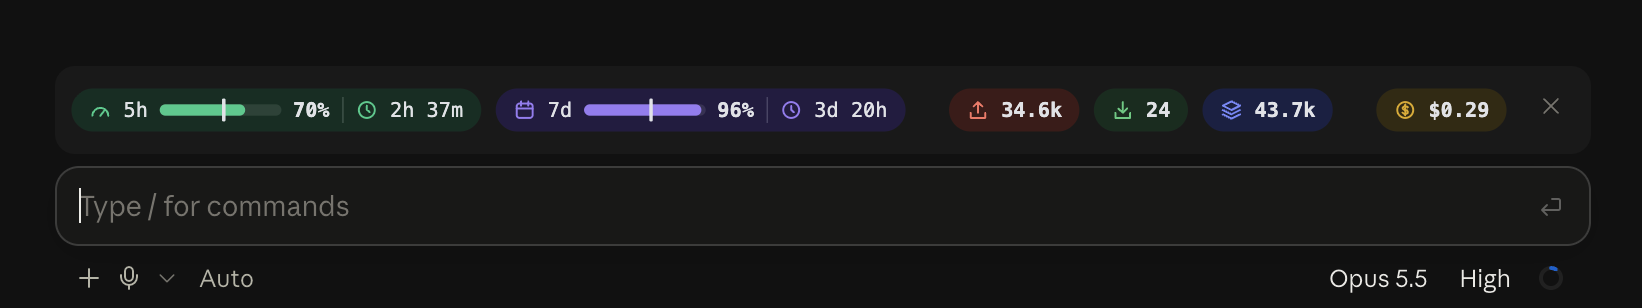
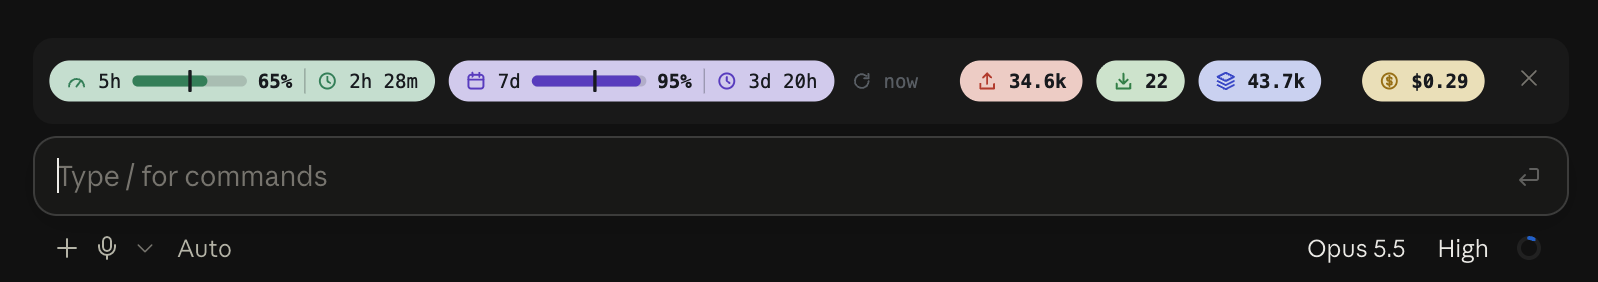
Show how old the rate-limit reading is
A refresh mark after the 7d pill gives the reading's age, with a
showUpdated option to leave it out. The README's section on update
timing now covers it and what to expect across sessions.

diff --git a/hooks/bar.ts b/hooks/bar.ts
@@ -10,6 +10,8 @@ export type Style = {
   // At or below these percentages left, the bar is drawn orange, then red.
   warnBelow: number
   dangerBelow: number
+  // Whether the bar says how long ago the rate-limit reading was taken.
+  showUpdated: boolean
 }
 
 export const DEFAULT_STYLE: Style = {
@@ -17,6 +19,7 @@ export const DEFAULT_STYLE: Style = {
   staleAfterMs: 10 * 60_000,
   warnBelow: 30,
   dangerBelow: 10,
+  showUpdated: true,
 }
 const WINDOWS: Record<string, { label: string; ms: number }> = {
   five_hour: { label: '5h', ms: 5 * HOUR },
@@ -78,6 +81,18 @@ export function formatCost(usd: number | null): string {
   return usd === null ? '$--' : `$${usd.toFixed(2)}`
 }
 
+// How long ago the rate-limit reading was taken: `now` under a minute, `--`
+// when there is no reading or its time is unknown.
+export function formatAge(snapshot: Snapshot, now: number): string {
+  if (snapshot.limits.length === 0 || snapshot.limitsAt === null) {
+    return '--'
+  }
+
+  const age = now - snapshot.limitsAt
+
+  return age < 60_000 ? 'now' : formatLeft(age)
+}
+
 export function textLine(snapshot: Snapshot, tokens: Tokens, now: number, style: Style): string {
   const windows = ['five_hour', 'seven_day'].map(kind => {
     const w = windowOf(kind, snapshot, now, style)
@@ -85,8 +100,14 @@ export function textLine(snapshot: Snapshot, tokens: Tokens, now: number, style:
     return `${w.label} ${w.isStale ? '~' : ''}${w.percent ?? '--'}% left (${w.left})`
   })
 
+  const age = formatAge(snapshot, now)
+  const updated = style.showUpdated && snapshot.limits.length > 0
+    ? [`updated ${age === 'now' || age === '--' ? age : `${age} ago`}`]
+    : []
+
   return [
     ...windows,
+    ...updated,
     `in ${formatTokens(tokens.input)}`,
     `out ${formatTokens(tokens.output)}`,
     `cache ${formatTokens(tokens.cache)}`,
@@ -104,6 +125,8 @@ const MID = HEIGHT / 2
 
 type Palette = {
   ink: string
+  // The refresh mark and its age, drawn on the band itself and not on a pill.
+  muted: string
   warn: string
   danger: string
   // Per pill, in the order drawn: its background and its icon and bar color.
@@ -113,6 +136,7 @@ type Palette = {
 const PALETTES: Record<Style['theme'], Palette> = {
   light: {
     ink: '#1f2328',
+    muted: '#6b7076',
     warn: '#c77d1a',
     danger: '#c0392b',
     pills: [
@@ -126,6 +150,7 @@ const PALETTES: Record<Style['theme'], Palette> = {
   },
   dark: {
     ink: '#e6e8eb',
+    muted: '#9aa0a6',
     warn: '#e0a040',
     danger: '#f0705f',
     pills: [
@@ -146,12 +171,13 @@ const ICONS = {
   up: '<path d="M8 10V2.5M5 5.5l3-3 3 3M3 10v3.5h10V10"/>',
   down: '<path d="M8 2.5V10M5 7l3 3 3-3M3 10v3.5h10V10"/>',
   layers: '<path d="M8 2l6 3-6 3-6-3zM2 8l6 3 6-3M2 11l6 3 6-3"/>',
+  refresh: '<path d="M13 8a5 5 0 1 1-1.6-3.6M13 2.8v3.2H9.8"/>',
   coin: '<circle cx="8" cy="8" r="5.5"/><path d="M9.8 6.2c-.3-.6-1-.9-1.8-.9-1 0-1.8.5-1.8 1.3 0 1.9 3.7.8 3.7 2.8 0 .8-.8 1.3-1.9 1.3-.9 0-1.6-.4-1.9-1M8 4.2v7.6"/>',
 }
 
 type Part =
   | { icon: keyof typeof ICONS; color: string }
-  | { text: string; isBold?: boolean; isFaded?: boolean }
+  | { text: string; isBold?: boolean; isFaded?: boolean; color?: string }
   | { bar: Window; color: string }
   | { rule: true }
 
@@ -175,7 +201,7 @@ function drawPart(part: Part, x: number, style: Style): string {
   }
 
   if ('text' in part) {
-    return `<text x="${x}" y="${MID + 5}" fill="${ink}" font-weight="${part.isBold ? 700 : 400}"${part.isFaded ? ' opacity="0.4"' : ''}>${part.text}</text>`
+    return `<text x="${x}" y="${MID + 5}" fill="${part.color ?? ink}" font-weight="${part.isBold ? 700 : 400}"${part.isFaded ? ' opacity="0.4"' : ''}>${part.text}</text>`
   }
 
   if ('rule' in part) {
@@ -227,19 +253,36 @@ function windowParts(w: Window, icon: 'gauge' | 'calendar', color: string): Part
 }
 
 export function barSvg(snapshot: Snapshot, tokens: Tokens, now: number, style: Style): string {
-  const contents: { parts: (accent: string) => Part[]; gapAfter: number }[] = [
-    { parts: accent => windowParts(windowOf('five_hour', snapshot, now, style), 'gauge', accent), gapAfter: 10 },
-    { parts: accent => windowParts(windowOf('seven_day', snapshot, now, style), 'calendar', accent), gapAfter: 30 },
-    { parts: accent => [{ icon: 'up', color: accent }, { text: formatTokens(tokens.input), isBold: true }], gapAfter: 10 },
-    { parts: accent => [{ icon: 'down', color: accent }, { text: formatTokens(tokens.output), isBold: true }], gapAfter: 10 },
-    { parts: accent => [{ icon: 'layers', color: accent }, { text: formatTokens(tokens.cache), isBold: true }], gapAfter: 30 },
-    { parts: accent => [{ icon: 'coin', color: accent }, { text: formatCost(snapshot.costUsd), isBold: true }], gapAfter: 0 },
+  const { pills: colors, muted } = PALETTES[style.theme]
+  // `pill` picks the palette entry; without one the parts sit on the band itself.
+  const contents: { pill?: number; parts: (accent: string) => Part[]; gapAfter: number }[] = [
+    { pill: 0, parts: accent => windowParts(windowOf('five_hour', snapshot, now, style), 'gauge', accent), gapAfter: 10 },
+    { pill: 1, parts: accent => windowParts(windowOf('seven_day', snapshot, now, style), 'calendar', accent), gapAfter: 30 },
+    { pill: 2, parts: accent => [{ icon: 'up', color: accent }, { text: formatTokens(tokens.input), isBold: true }], gapAfter: 10 },
+    { pill: 3, parts: accent => [{ icon: 'down', color: accent }, { text: formatTokens(tokens.output), isBold: true }], gapAfter: 10 },
+    { pill: 4, parts: accent => [{ icon: 'layers', color: accent }, { text: formatTokens(tokens.cache), isBold: true }], gapAfter: 30 },
+    { pill: 5, parts: accent => [{ icon: 'coin', color: accent }, { text: formatCost(snapshot.costUsd), isBold: true }], gapAfter: 0 },
   ]
-  const { pills: colors } = PALETTES[style.theme]
+
+  if (style.showUpdated && snapshot.limits.length > 0) {
+    const seven = contents[1]
+
+    if (seven !== undefined) {
+      seven.gapAfter = 0
+    }
+
+    contents.splice(2, 0, {
+      parts: () => [{ icon: 'refresh', color: muted }, { text: formatAge(snapshot, now), color: muted }],
+      gapAfter: 18,
+    })
+  }
 
   let x = 0
-  const drawn = contents.map((content, index) => {
-    const { background, accent } = colors[index] ?? { background: 'none', accent: 'currentColor' }
+  const drawn = contents.map(content => {
+    const { background, accent } = (content.pill === undefined ? undefined : colors[content.pill]) ?? {
+      background: 'none',
+      accent: muted,
+    }
     const { svg, width } = drawPill(content.parts(accent), background, x, style)
     x += width + content.gapAfter
 

diff --git a/tests/bar.test.ts b/tests/bar.test.ts
@@ -45,7 +45,7 @@ test('the band shows the windows, tokens and cost on each surface', async ($, on
     },
   })
 
-  const line = '5h 80% left (2h 40m) | 7d 42% left (1d 7h) | in 15.6k | out 3.0k | cache 954.2k | $4.32'
+  const line = '5h 80% left (2h 40m) | 7d 42% left (1d 7h) | updated now | in 15.6k | out 3.0k | cache 954.2k | $4.32'
   const terminal = await $.ui.mount({ ...BAND, surface: 'terminal' })
   expect((await terminal.find({ type: 'Text' }))?.text).toBe(line)
   await terminal.unmount()
@@ -141,7 +141,7 @@ test('options set the theme, the cache-write split and the fade time', { options
 
   const ui = await $.ui.mount({ ...BAND, surface: 'desktop' })
   const svg = await ui.find({ type: 'Svg' })
-  expect(svg?.props.alt).toContain('5h 80% left (2h 40m) | 7d --% left (--) | in 600 | out 3.0k | cache 16.0k')
+  expect(svg?.props.alt).toContain('5h 80% left (2h 40m) | 7d --% left (--) | updated now | in 600 | out 3.0k | cache 16.0k')
   expect(String(svg?.props.source)).toContain('#1f3a2e')
   expect(String(svg?.props.source)).not.toContain('#cfe3d8')
 
@@ -150,6 +150,24 @@ test('options set the theme, the cache-write split and the fade time', { options
   // No timer runs in this test, so a fresh mount stands for the next redraw.
   await clock.advance(2 * 60_000)
   const later = await $.ui.mount({ ...BAND, surface: 'desktop' })
-  expect((await later.find({ type: 'Svg' }))?.props.alt).toContain('5h ~80% left')
+  const faded = await later.find({ type: 'Svg' })
+  expect(faded?.props.alt).toContain('5h ~80% left')
+  expect(faded?.props.alt).toContain('updated 2m ago')
   await later.unmount()
+})
+
+test('showUpdated off leaves the reading age out', { options: { showUpdated: false } }, async ($, on) => {
+  mock.clock(on, { now: NOW })
+  mock.store(on)
+  on('session.measure', (_, e) => ({ changed: e.changed }))
+
+  await $.session.measure({
+    context: { window: 200_000 },
+    rateLimits: [{ kind: 'five_hour', percentUsed: 20, resetsAt: '2026-10-06T14:40:00Z' }],
+    changed: ['rateLimits'],
+  })
+
+  const ui = await $.ui.mount({ ...BAND, surface: 'terminal' })
+  expect((await ui.find({ type: 'Text' }))?.text).not.toContain('updated')
+  await ui.unmount()
 })

diff --git a/hooks/register.tsx b/hooks/register.tsx
@@ -78,6 +78,7 @@ function styleOf(options: PluginOptions): Style {
     staleAfterMs: numberOf(options.staleMinutes, DEFAULT_STYLE.staleAfterMs / 60_000, 1, 1440) * 60_000,
     warnBelow: numberOf(options.warnBelow, DEFAULT_STYLE.warnBelow, 0, 100),
     dangerBelow: numberOf(options.dangerBelow, DEFAULT_STYLE.dangerBelow, 0, 100),
+    showUpdated: options.showUpdated !== false,
   }
 }
 

diff --git a/README.md b/README.md
@@ -1,16 +1,16 @@
-# usage-bar
+# claude-code-usage-bar
 
 [![License: MIT](https://img.shields.io/badge/License-MIT-blue.svg)](LICENSE)
 
 English | [中文](README.zh.md)
 
-A Claude Code mod that draws a usage bar above the prompt: what is left of the 5-hour and 7-day rate-limit windows, this session's tokens, and its cost.
+`usage-bar` is a Claude Code mod that draws a usage bar above the prompt: what is left of the 5-hour and 7-day rate-limit windows, this session's tokens, and its cost.
 
-![usage-bar in the light theme](docs/screenshot-light.png)
+![The usage bar in the app's light theme](docs/screenshot-light.png)
 
-![usage-bar in the dark theme, with the dark palette](docs/screenshot-dark.png)
+![The usage bar in the app's dark theme, with the default palette](docs/screenshot-dark.png)
 
-The dark palette is chosen with the [`theme` option](#configuration).
+Both show the default palette. A darker one is chosen with the [`theme` option](#configuration).
 
 > **Early access.** Claude Code's mod (function hooks) API may change between releases, and a Claude Code update can break this mod. See [Requirements](#requirements) for what it has been used on.
 
@@ -21,6 +21,7 @@ The dark palette is chosen with the [`theme` option](#configuration).
 | `5h`, `7d` | Allowance left in the window, as a bar and a percentage |
 | Vertical mark on the bar | Share of the window's time that is left. Fill past the mark means the allowance is lasting longer than the clock |
 | Clock | Time until the window resets |
+| Refresh mark | How long ago the two percentages were read. See [When it updates](#when-it-updates) |
 | Up arrow | Input tokens this session: uncached input plus cache writes (see `countCacheWrites`) |
 | Down arrow | Output tokens this session |
 | Layers | Tokens read from the prompt cache this session |
@@ -30,16 +31,35 @@ The bar turns orange at 30% left and red at 10% left. A reading older than 10 mi
 
 ## When it updates
 
-There is no polling of Anthropic's servers. Each figure updates on its own trigger:
+The mod never queries Anthropic's servers. Claude Code hands it the rate-limit figures that came back with the last model response, and each figure on the bar refreshes on its own trigger:
 
 | Figure | Updates |
 | --- | --- |
 | `5h` / `7d` percentage and bar | When a model response comes back in this session, or within about a minute of one coming back in any other local session |
+| Reading age (the refresh mark after `7d`) | Every 60 seconds; back to `now` when a new reading arrives |
 | Reset countdown and the vertical mark | Every 60 seconds, from the clock |
 | Token counts | At the end of each turn in this session |
 | Cost | At the end of each turn in this session |
 
-So an idle session's percentages stay where they were until some local session gets a response; after 10 minutes without one they are drawn faded. The countdown keeps moving regardless.
+### The reading age
+
+The mark after the `7d` pill says how long ago the percentages were read: `now` under a minute, then `3m`, `1h 5m` and so on. It is the quickest way to tell whether the percentages can be trusted.
+
+- `now` or a few minutes: the percentages are current.
+- More than 10 minutes (the `staleMinutes` option): the percentages are also drawn faded.
+- `--`: there is a reading but its time is unknown, which happens in a session that has not had a response of its own yet and found none shared by another session.
+
+Set `showUpdated` to `false` to leave the mark out.
+
+### What this means in practice
+
+- **One session in use.** Its percentages update after every reply, so they are at most one turn old.
+- **Several sessions open.** Whenever any of them gets a reply, the others pick up the new percentages within about a minute, without sending anything.
+- **Every session idle.** Nothing updates. The reading age keeps counting up and the percentages fade after 10 minutes. The countdown keeps moving, because it comes from the clock.
+- **Usage outside Claude Code.** What you use on claude.ai or the mobile app is not seen until a local session gets its next reply.
+- **A window resets while idle.** The bar still shows the percentage from before the reset, faded, until the next reply. The true figure is then close to 100% left.
+
+To refresh on demand, send any message in any local session.
 
 ## Requirements
 
@@ -82,7 +102,8 @@ Options are read from `pluginConfigs` in `~/.claude/settings.json`, keyed by the
         "staleMinutes": 10,
         "warnBelow": 30,
         "dangerBelow": 10,
-        "countCacheWrites": true
+        "countCacheWrites": true,
+        "showUpdated": true
       }
     }
   }
@@ -95,7 +116,12 @@ Options are read from `pluginConfigs` in `~/.claude/settings.json`, keyed by the
 | `staleMinutes` | `10` | A rate-limit reading older than this is drawn faded |
 | `warnBelow` | `30` | Percent left at which a window's bar turns orange |
 | `dangerBelow` | `10` | Percent left at which a window's bar turns red |
+| `showUpdated` | `true` | Show how long ago the rate-limit reading was taken, after the `7d` pill |
 | `countCacheWrites` | `true` | `true`: the up arrow is uncached input plus cache writes. `false`: it is uncached input alone, and cache writes are counted with cache reads |
+
+With `"theme": "dark"` (this screenshot predates the reading-age mark):
+
+![The dark palette in the app's dark theme](docs/screenshot-dark-palette.png)
 
 ## Hide and show
 

diff --git a/README.zh.md b/README.zh.md
@@ -1,16 +1,16 @@
-# usage-bar
+# claude-code-usage-bar
 
 [![License: MIT](https://img.shields.io/badge/License-MIT-blue.svg)](LICENSE)
 
 [English](README.md) | 中文
 
-一个 Claude Code mod，在输入框上方显示用量条：5 小时和 7 天额度窗口的剩余量、本会话的 token 数和费用。
+`usage-bar` 是一个 Claude Code mod，在输入框上方显示用量条：5 小时和 7 天额度窗口的剩余量、本会话的 token 数和费用。
 
-![浅色主题下的用量条](docs/screenshot-light.png)
+![应用浅色主题下的用量条](docs/screenshot-light.png)
 
-![深色主题下的用量条，使用深色配色](docs/screenshot-dark.png)
+![应用深色主题下的用量条，默认配色](docs/screenshot-dark.png)
 
-深色配色通过 [`theme` 配置项](#配置)选择。
+两张都是默认配色。更暗的一套配色通过 [`theme` 配置项](#配置)选择。
 
 > **早期接口。** Claude Code 的 mod（function hooks）接口可能随版本变化，Claude Code 升级后本 mod 可能失效。实际使用过的环境见[环境要求](#环境要求)。
 
@@ -21,6 +21,7 @@
 | `5h`、`7d` | 该窗口的剩余额度，以进度条和百分比显示 |
 | 进度条上的竖线 | 该窗口剩余时间的比例。填充超过竖线，说明额度剩得比时间多 |
 | 时钟 | 距离窗口重置的时间 |
+| 刷新标记 | 两个百分比是多久之前读到的，见[更新时机](#更新时机) |
 | 向上箭头 | 本会话输入 token：未缓存输入加缓存写入（见 `countCacheWrites`） |
 | 向下箭头 | 本会话输出 token |
 | 叠层 | 本会话从提示词缓存读取的 token |
@@ -30,16 +31,35 @@
 
 ## 更新时机
 
-本 mod 不会轮询 Anthropic 的服务器。每项数据各有自己的更新触发条件：
+本 mod 从不查询 Anthropic 的服务器。Claude Code 把最近一次模型响应附带的额度数据交给它，用量条上每项数据各有自己的刷新触发条件：
 
 | 数据 | 何时更新 |
 | --- | --- |
 | `5h` / `7d` 的百分比和进度条 | 本会话收到模型响应时；或本机其他任意会话收到响应后约一分钟内 |
+| 读数时间（`7d` 后面的刷新标记） | 每 60 秒刷新；收到新读数时回到 `now` |
 | 重置倒计时和竖线 | 每 60 秒按时钟刷新 |
 | token 数 | 本会话每轮对话结束时 |
 | 费用 | 本会话每轮对话结束时 |
 
-因此空闲会话的百分比会停在原值，直到本机有会话收到新的响应；超过 10 分钟没有新读数时变灰。倒计时不受影响，始终在走。
+### 读数时间
+
+`7d` 胶囊后面的标记表示百分比是多久之前读到的：不足一分钟显示 `now`，之后是 `3m`、`1h 5m` 这样的格式。看它就能判断百分比还新不新。
+
+- `now` 或几分钟：百分比是当前的。
+- 超过 10 分钟（`staleMinutes` 配置项）：百分比同时变灰。
+- `--`：有读数但不知道是什么时候的。出现在本会话还没有收到过自己的响应、也没有从其他会话拿到共享读数的时候。
+
+把 `showUpdated` 设为 `false` 可以不显示这个标记。
+
+### 实际使用中的表现
+
+- **只用一个会话。** 每次回复后百分比都会更新，最多落后一轮。
+- **同时开着多个会话。** 任意一个收到回复，其他会话约一分钟内同步到新的百分比，不需要发消息。
+- **所有会话都空闲。** 不会更新。读数时间持续增加，10 分钟后百分比变灰。倒计时照常在走，因为它按时钟计算。
+- **在 Claude Code 之外的用量。** 网页端和手机端的用量要等本机某个会话收到下一次回复后才能看到。
+- **空闲期间窗口重置了。** 用量条仍显示重置前的百分比（灰色），直到下一次回复。这时真实的剩余量接近 100%。
+
+想立即刷新，在本机任意会话里发一条消息即可。
 
 ## 环境要求
 
@@ -82,7 +102,8 @@ claude --plugin-dir ~/.claude/mods/usage-bar
         "staleMinutes": 10,
         "warnBelow": 30,
         "dangerBelow": 10,
-        "countCacheWrites": true
+        "countCacheWrites": true,
+        "showUpdated": true
       }
     }
   }
@@ -95,7 +116,12 @@ claude --plugin-dir ~/.claude/mods/usage-bar
 | `staleMinutes` | `10` | 额度读数超过这个分钟数未更新时变灰 |
 | `warnBelow` | `30` | 剩余百分比降到该值及以下时进度条变橙 |
 | `dangerBelow` | `10` | 剩余百分比降到该值及以下时进度条变红 |
+| `showUpdated` | `true` | 在 `7d` 胶囊后显示额度读数是多久之前读到的 |
 | `countCacheWrites` | `true` | `true`：向上箭头为未缓存输入加缓存写入。`false`：只算未缓存输入，缓存写入并入缓存读取一项 |
+
+设置 `"theme": "dark"` 后的效果（这张截图早于读数时间标记的加入）：
+
+![应用深色主题下的深色配色](docs/screenshot-dark-palette.png)
 
 ## 隐藏与显示
 

diff --git a/CHANGELOG.md b/CHANGELOG.md
@@ -2,6 +2,13 @@
 
 Versions follow [Semantic Versioning](https://semver.org/).
 
+## 0.3.0 - 2026-10-06
+
+- The bar now shows how long ago the rate-limit reading was taken, as a refresh mark after the `7d` pill: `now`, `3m`, `1h 5m`.
+- Added the `showUpdated` option to leave the mark out.
+- The README is now titled with the repository's name, and its screenshots show the reading-age mark.
+- Expanded the "When it updates" section of the README with the reading age and what to expect with one, several or no active sessions.
+
 ## 0.2.2 - 2026-10-06
 
 Documentation only; the mod's behavior is unchanged.
